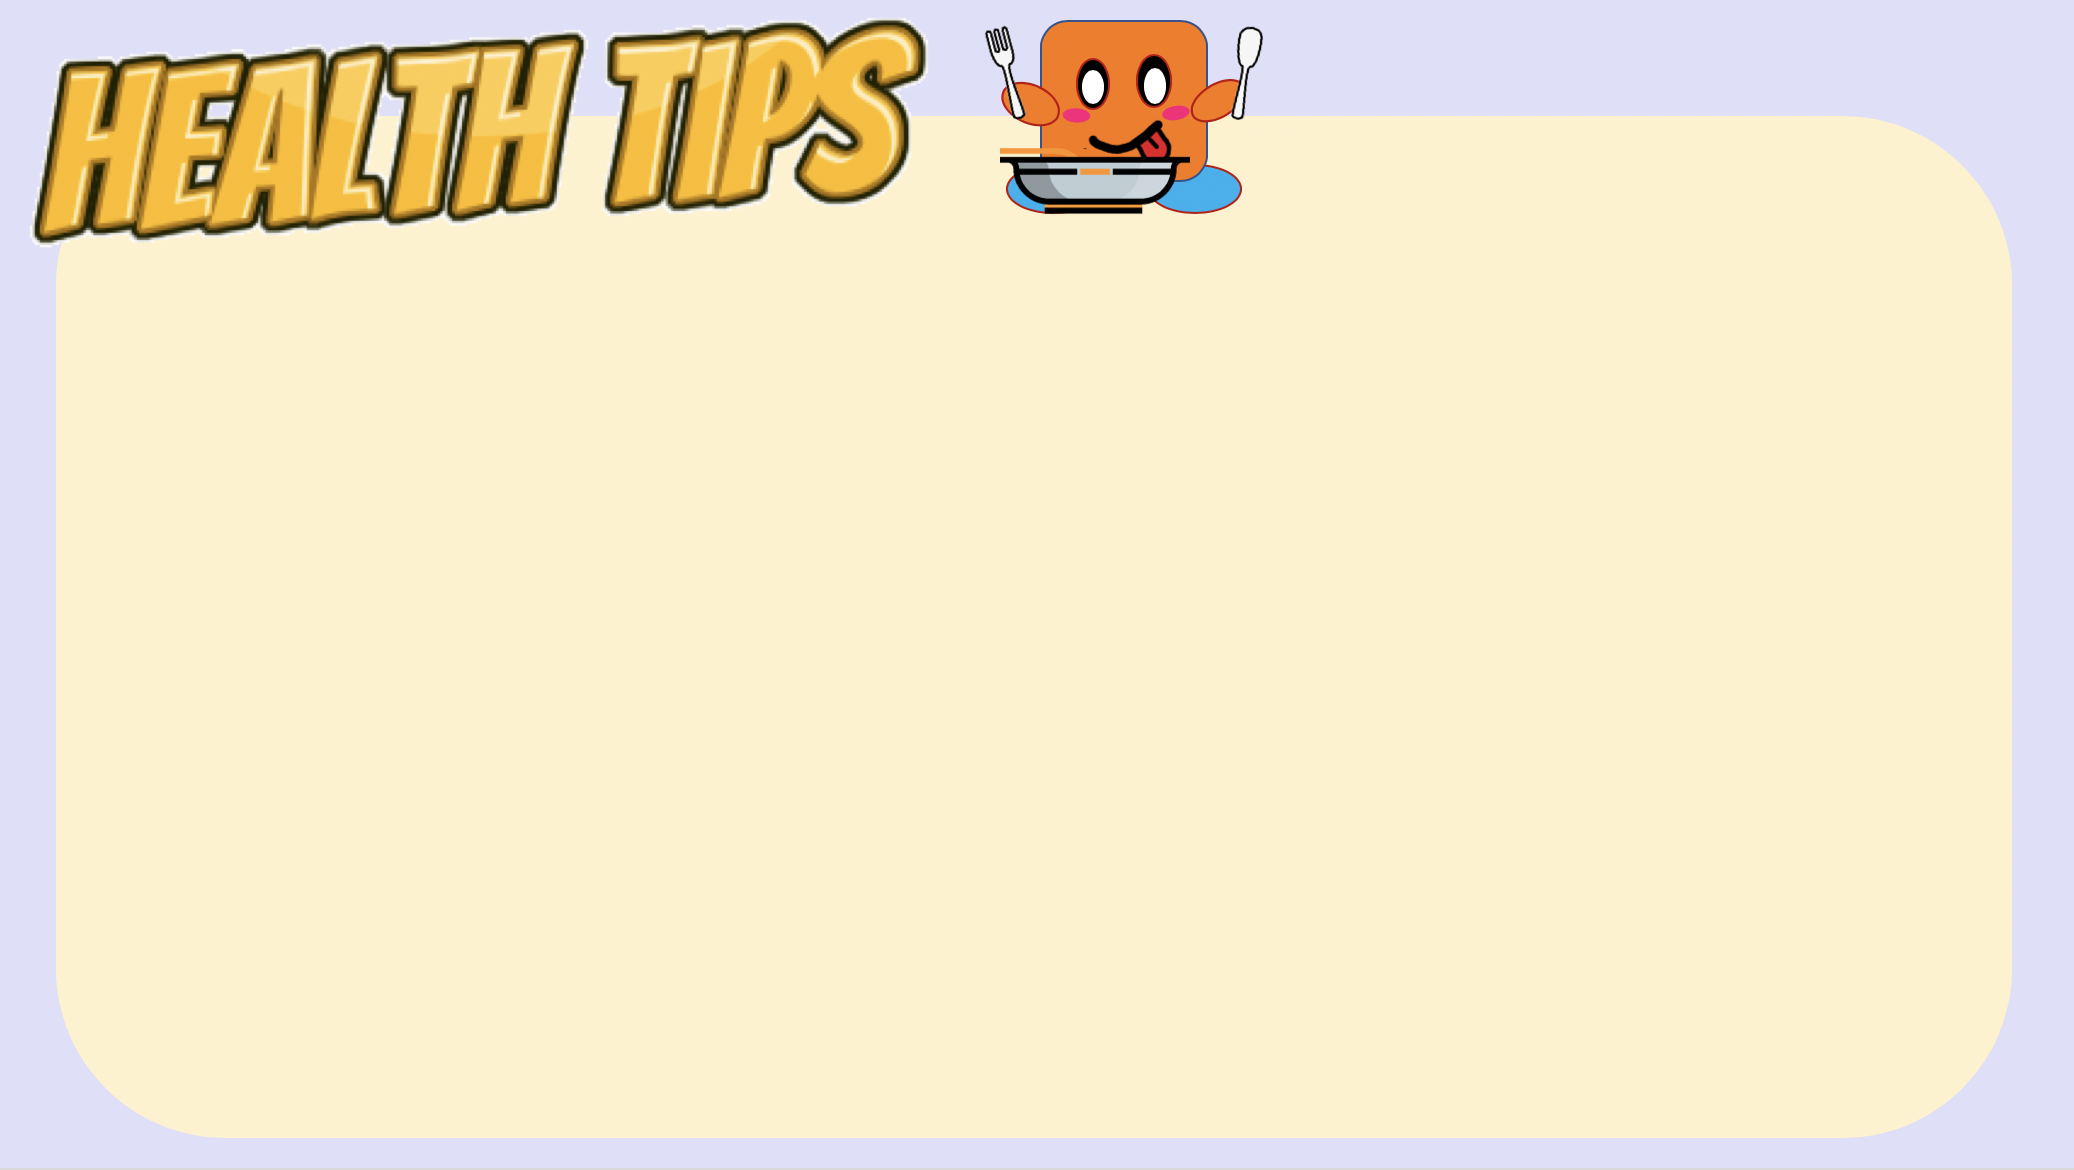
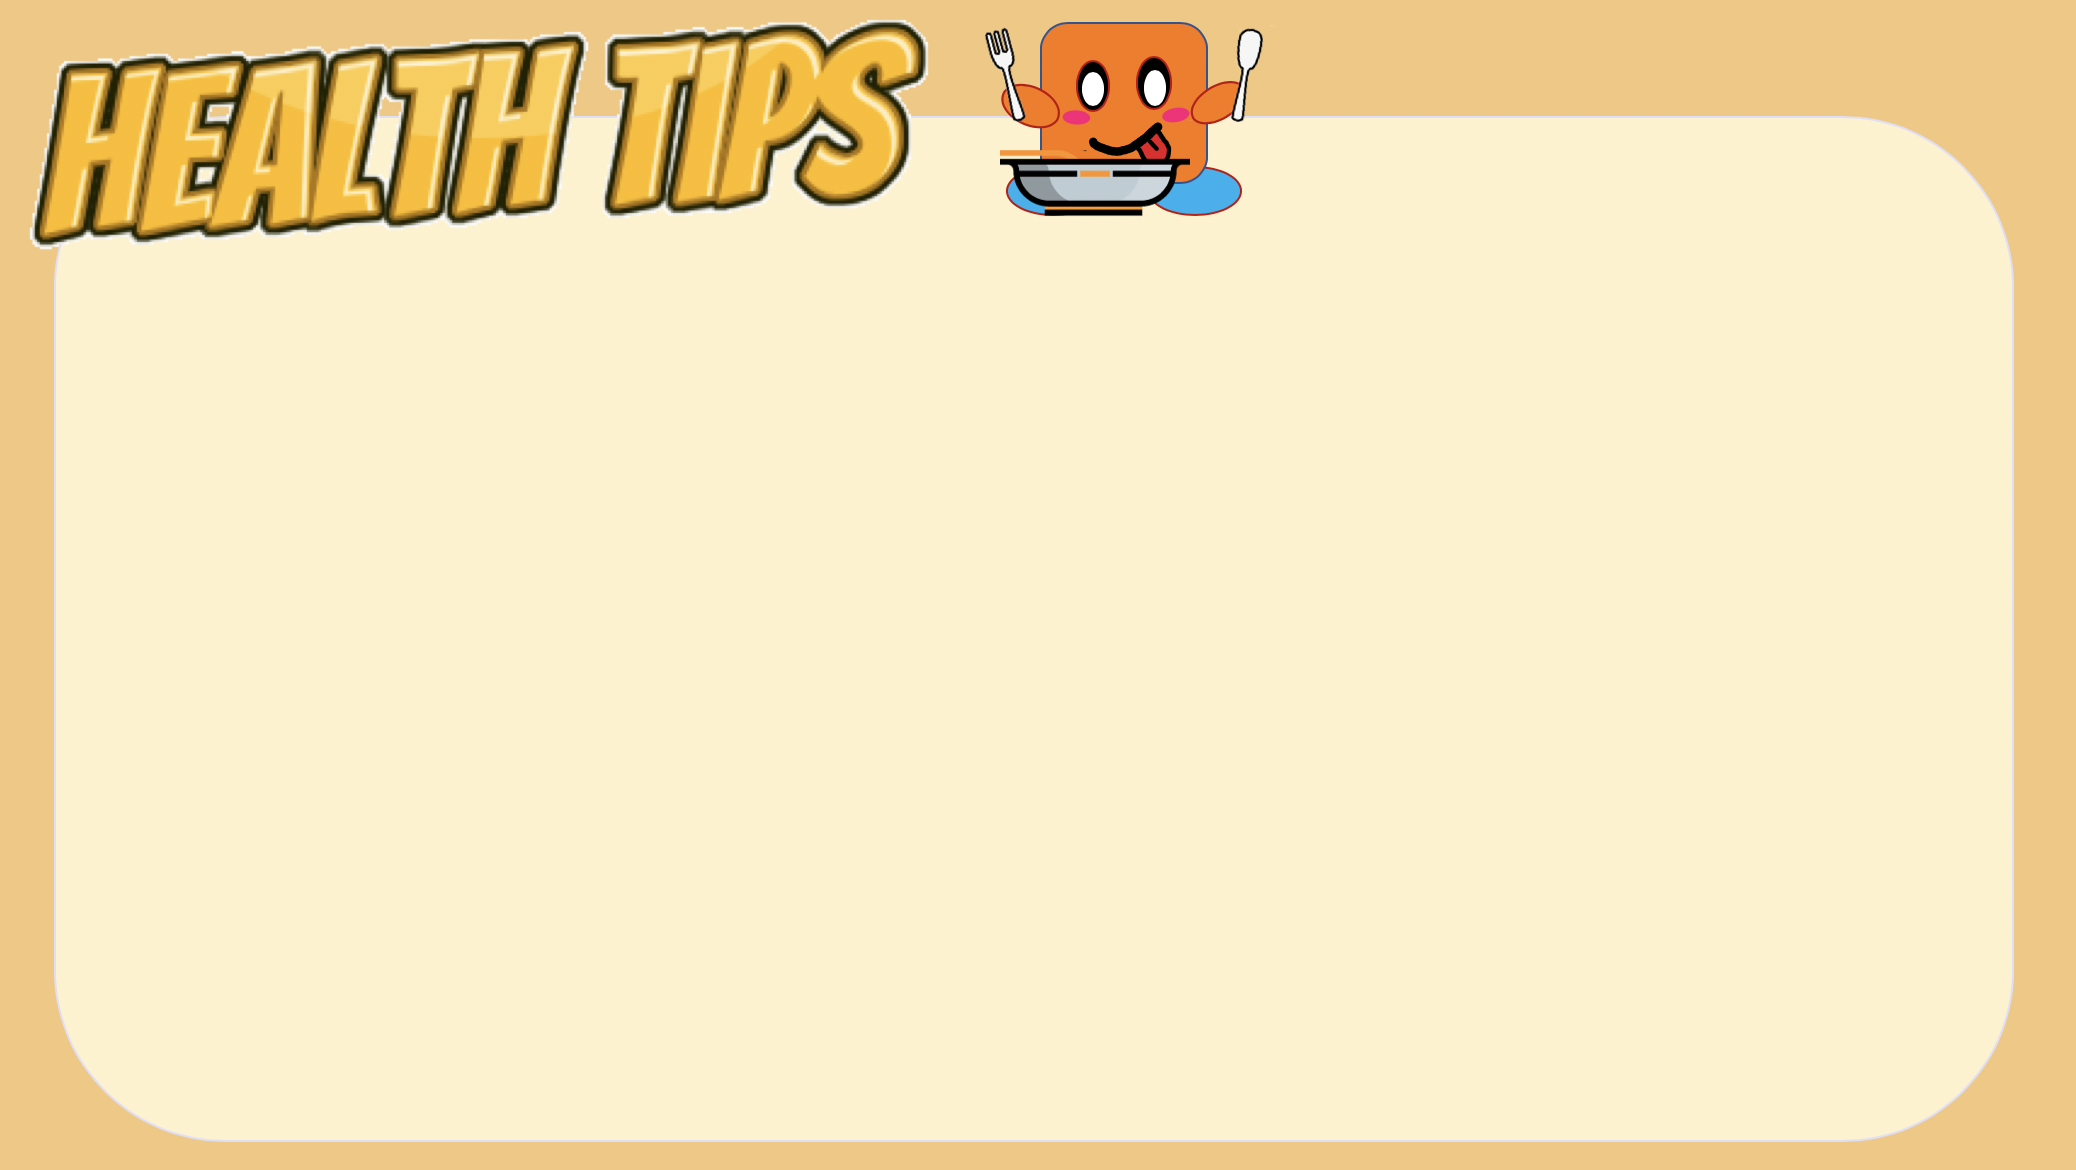
update background color

Changed region(s): [[0.0, 0.0, 1.0, 1.0]]

diff --git a/Web/index.html b/Web/index.html
@@ -160,10 +160,9 @@
                 </div>
             </div>
 
-            <div class="row py-3" id="instruction">
+            <div class="row py-3" id="health_tips">
                 <div class="col-md-12"
                 style="background-color: #f0a50090;">
-                <!--height: 20em;">-->
                     <div style="position: relative; text-align: center;">
                         <div class="col-md-12">
                             <img src = "img/HealthTipBG.png" style ="width:100%; height:auto">
